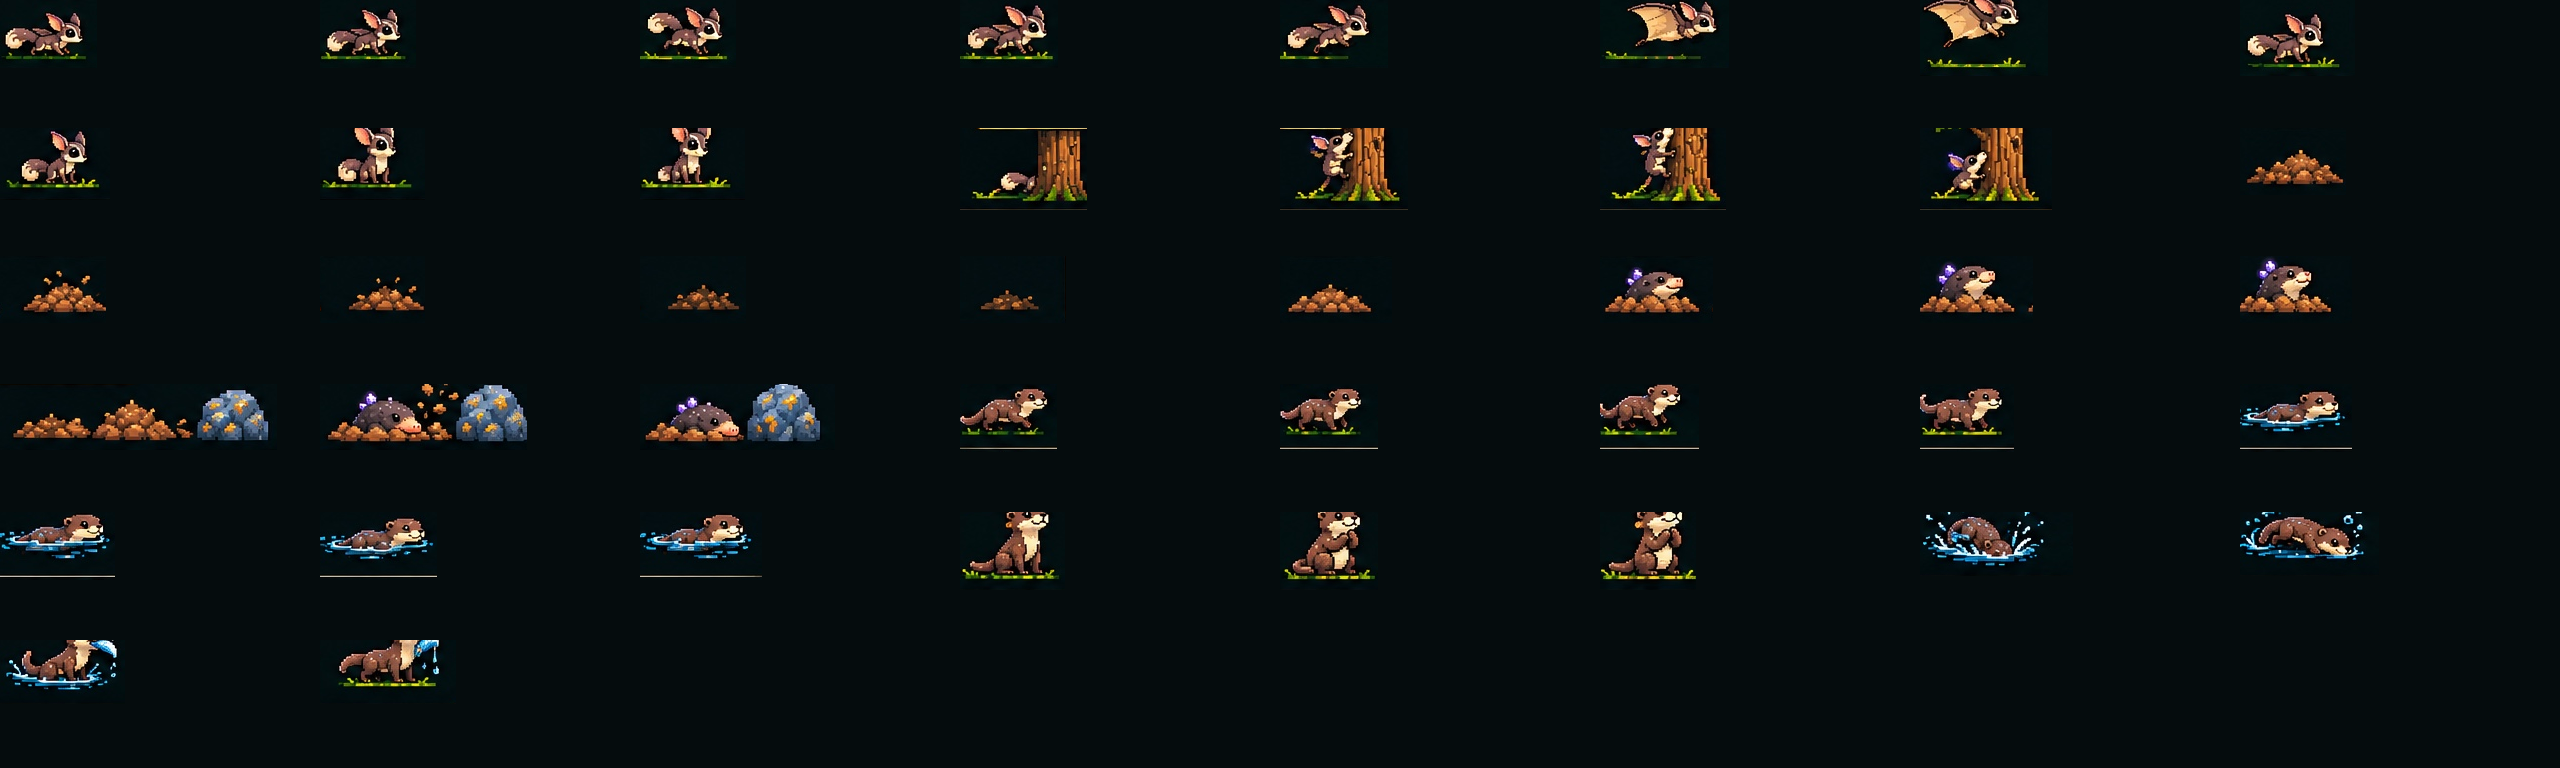
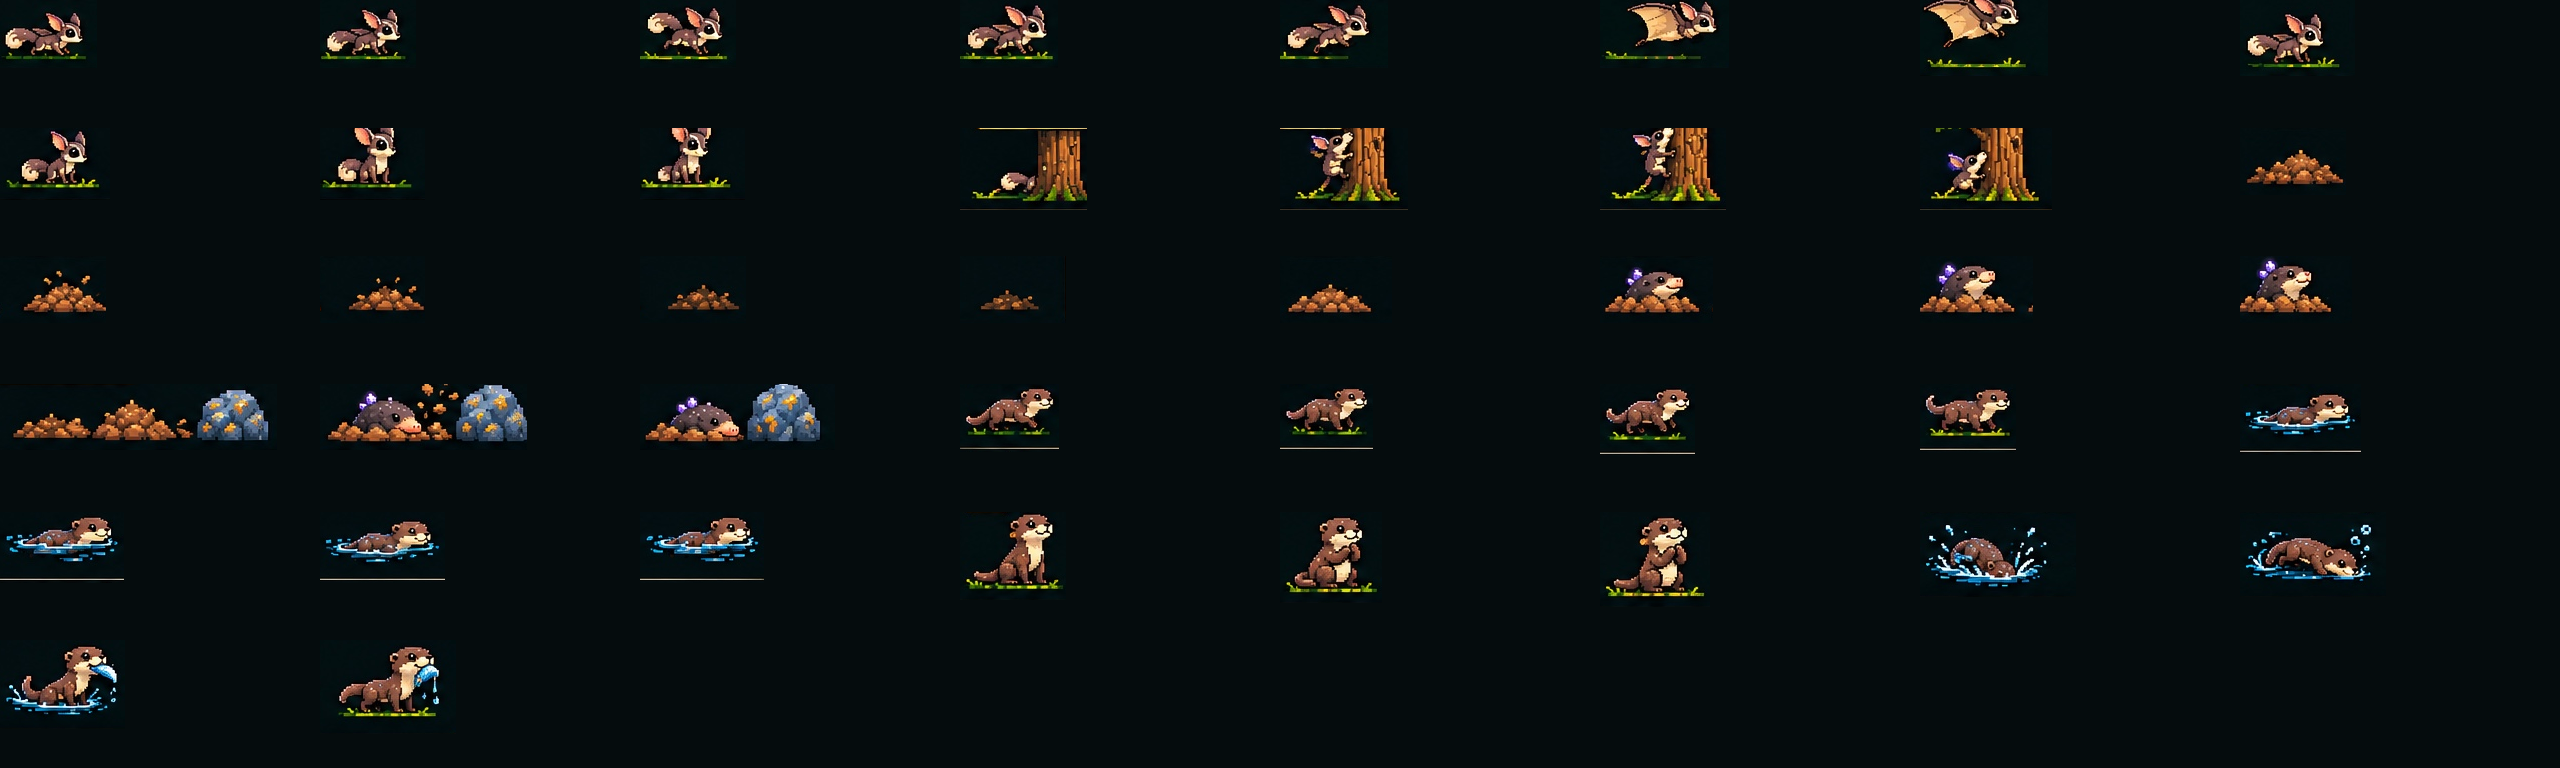
Fix River Otter frame clipping and scale companions below the player

diff --git a/public/crater-fitting-preview.html b/public/crater-fitting-preview.html
@@ -10,4 +10,4 @@
 <div class="playback"><button id="play" type="button">Pause</button><button id="replay" type="button">Replay</button><label>Frame<input id="frame" type="range" min="0" max="0" value="0"></label><span id="frameLabel" class="small" aria-live="off"></span><label class="check"><input id="mirror" type="checkbox">Mirror study (not a supplied view)</label></div>
 <div class="controls"><section class="panel"><h2>Fitting controls</h2><label>Draft creature size <input id="size" type="range" min="0.5" max="2" step="0.05" value="1"><span id="sizeLabel"></span></label><br><label>Preview frame duration <input id="duration" type="range" min="80" max="400" step="10" value="160"><span id="durationLabel"></span></label><p class="small">The player uses the existing approved renderer. The cyan marker is the crop’s proposed ground anchor. Creature crop backgrounds and grass remain visible.</p></section><section class="panel"><h2>Source & missing work</h2><dl id="details"></dl><p id="missing"></p><p id="error" role="alert"></p></section></div>
 <footer id="status" role="status">Loading approved reference frames…</footer>
-</main><script src="/wardrobe-v5.js?v=5"></script><script src="/approved-character.js?v=9"></script><script src="/crater-animation.js?v=1"></script><script src="/crater-fitting-preview.js?v=1"></script></body></html>
+</main><script src="/wardrobe-v5.js?v=5"></script><script src="/approved-character.js?v=9"></script><script src="/crater-animation.js?v=1"></script><script src="/crater-fitting-preview.js?v=2"></script></body></html>

diff --git a/public/crater-fitting-preview.js b/public/crater-fitting-preview.js
@@ -40,7 +40,7 @@
   if($('mirror').checked)ctx.fillText('Mirrored source study — no new directional artwork',24,54);
  }
  async function init(){
-  try{const response=await fetch('/crater-reference-frames.json?v=1');if(!response.ok)throw Error('Cannot load reference metadata');data=await response.json();await Promise.all(Object.entries(data.references).map(async([ref,r])=>images.set(ref,await loadImage('/'+r.file+'?v=1'))));
+  try{const response=await fetch('/crater-reference-frames.json?v=2');if(!response.ok)throw Error('Cannot load reference metadata');data=await response.json();await Promise.all(Object.entries(data.references).map(async([ref,r])=>images.set(ref,await loadImage('/'+r.file+'?v='+data.version))));
    selectCategory();$('category').addEventListener('change',selectCategory);$('creature').addEventListener('change',selectCreature);$('state').addEventListener('change',()=>{reset();updateDetails()});
    $('frame').addEventListener('input',()=>{playing=false;index=Number($('frame').value);$('play').textContent='Play'});
    $('play').addEventListener('click',()=>{playing=!playing;$('play').textContent=playing?'Pause':'Play'});$('replay').addEventListener('click',()=>{reset();playing=true;$('play').textContent='Pause'});

diff --git a/public/crater-pet-reference.js b/public/crater-pet-reference.js
@@ -4,8 +4,8 @@
   let ready=false,error='',metadata=null,atlas=null;const icons=new Map();
   async function load(){
    if(typeof fetch!=='function'||typeof Image!=='function')return false;
-   try{const response=await fetch('/crater-reference-frames.json?v=1');if(!response.ok)throw Error('Pet reference metadata unavailable');metadata=await response.json();
-    atlas=await new Promise((resolve,reject)=>{const image=new Image();image.onload=()=>resolve(image);image.onerror=()=>reject(Error('Pet reference artwork unavailable'));image.src='/'+metadata.references.R5.file+'?v=1'});
+   try{const response=await fetch('/crater-reference-frames.json?v=2');if(!response.ok)throw Error('Pet reference metadata unavailable');metadata=await response.json();
+    atlas=await new Promise((resolve,reject)=>{const image=new Image();image.onload=()=>resolve(image);image.onerror=()=>reject(Error('Pet reference artwork unavailable'));image.src='/'+metadata.references.R5.file+'?v='+metadata.version});
     ready=true;window.dispatchEvent?.(new Event('myrren-pet-reference-ready'));return true;
    }catch(e){error=e.message;return false}
   }

diff --git a/public/index.html b/public/index.html
@@ -72,7 +72,7 @@
 <script src="/crater-rocks.js?v=1"></script>
 <script src="/crater-animation.js?v=1"></script>
 <script src="/skilling-pets.js?v=1"></script>
-<script src="/crater-pet-reference.js?v=1"></script>
+<script src="/crater-pet-reference.js?v=2"></script>
 <script src="/myrren-game.js?v=16"></script>
 </body>
 </html>

diff --git a/scripts/pack-crater-reference-frames.py b/scripts/pack-crater-reference-frames.py
@@ -64,15 +64,15 @@ for id,name,top,bottom,height,count in [('forest_deer','Forest Deer',151,244,31,
         'takeoff' if id=='raven' else 'flee':group([976,top,1520,bottom],count,True)
     },(['Tree-climb frames'] if id=='squirrel' else [])+['Front/back views','Exact production frame timings'])
 
-creature('timber_glider','Timber Glider','Pets','R5',30,{
+creature('timber_glider','Timber Glider','Pets','R5',18,{
     'walk':group([525,145,955,213],4,True),'glide':group([1002,137,1520,213],4),
     'idle':group([525,260,955,332],3,True),'climb':group([1002,245,1520,332],4)
 },['Front/back views','Exact production frame timings'])
-creature('geode_mole','Geode Mole','Pets','R5',26,{
+creature('geode_mole','Geode Mole','Pets','R5',16,{
     'burrow':group([523,386,1052,453],5,True),'surface':group([1070,386,1520,453],4),
     'dig':group([523,477,1052,562],5)
 },['Front/back views','Exact production frame timings'])
-creature('river_otter','River Otter','Pets','R5',28,{
+creature('river_otter','River Otter','Pets','R5',18,{
     'walk':group([525,621,955,689],4,True),'swim':group([1002,621,1520,689],4,True),
     'idle':group([525,732,955,810],3,True),'dive-catch':group([1002,727,1520,810],4)
 },['Front/back views','Exact production frame timings'])
@@ -117,10 +117,10 @@ boxes('timber_glider','glide',[[1008,145,1116,213],[1125,145,1254,213],[1260,137
 boxes('timber_glider','idle',[[528,260,638,332],[650,260,755,332],[765,260,870,332]])
 boxes('timber_glider','climb',[[950,251,1077,333],[1093,251,1221,333],[1234,251,1360,333],[1373,251,1505,333]])
 boxes('geode_mole','dig',[[550,496,827,562],[853,496,1060,562],[1100,496,1295,562]])
-boxes('river_otter','walk',[[529,621,626,689],[639,621,737,689],[749,621,848,689],[859,621,953,689]])
-boxes('river_otter','swim',[[1000,621,1112,689],[1125,621,1240,689],[1253,621,1370,689],[1386,621,1508,689]])
-boxes('river_otter','idle',[[530,732,635,810],[652,732,750,810],[770,732,866,810]])
-boxes('river_otter','dive-catch',[[949,746,1102,810],[1105,746,1244,810],[1247,746,1372,810],[1375,746,1511,810]])
+boxes('river_otter','walk',[[523,621,622,689],[633,621,726,689],[740,616,835,689],[851,620,947,689]])
+boxes('river_otter','swim',[[990,618,1111,689],[1117,618,1241,689],[1247,618,1372,689],[1379,618,1503,689]])
+boxes('river_otter','idle',[[526,722,632,810],[650,719,752,810],[765,715,875,810]])
+boxes('river_otter','dive-catch',[[946,725,1102,810],[1098,725,1244,810],[1247,721,1372,810],[1375,716,1511,810]])
 
 # Final crop audit: isolate each complete pose instead of neighbouring limbs.
 boxes('jewelheart_guardian','idle',[[671,425,771,519],[782,425,881,519],[893,425,989,519],[1002,425,1096,519]])
@@ -167,8 +167,9 @@ levels=dict(zip(order[:8],[1,5,8,12,16,18,22,30]))
 creatures.sort(key=lambda c:order.index(c['id']))
 for c in creatures:
     if c['id'] in levels:c['level']=levels[c['id']]
+    if c['id']=='river_otter':c['fitSourceHeight']=68 # Expanded crops must not change the established source-pixel scale.
 
-data=dict(version=1,purpose='Exact reference crops for inspection; not production sprites',
+data=dict(version=2,purpose='Exact reference crops for inspection; not production sprites',
     pixelPolicy='Original decoded JPEG pixels retained without resizing, masking or redrawing.',
     timingPolicy='Preview timing only; no production durations approved.',
     sizePolicy='draftFitHeight is an adjustable fitting proposal, not an approved scale.',

diff --git a/tests/pet-scale-and-otter-crops.py b/tests/pet-scale-and-otter-crops.py
@@ -1,0 +1,26 @@
+"""Regression fixtures measured from the approved R5 animals, not crop edges."""
+import json
+from pathlib import Path
+
+root=Path(__file__).resolve().parents[1]
+m=json.loads((root/'public/crater-reference-frames.json').read_text())
+pets={c['id']:c for c in m['creatures'] if c['category']=='Pets'}
+assert {key:p['draftFitHeight'] for key,p in pets.items()}=={'timber_glider':18,'geode_mole':16,'river_otter':18}
+assert all(p['draftFitHeight']<40/2 for p in pets.values()),'companions must remain small beside the approximately 40px player'
+otter=pets['river_otter'];assert otter['fitSourceHeight']==68,'adding crop padding must not change the source-pixel scale'
+# Inclusive bounds of complete animals/splashes measured in the original board.
+body_bounds={
+ 'walk':[(529,629,615,671),(639,625,719,671),(746,622,828,671),(857,626,940,671)],
+ 'swim':[(996,629,1104,668),(1123,624,1234,667),(1253,628,1365,667),(1385,624,1496,667)],
+ 'idle':[(533,725,625,798),(656,725,746,798),(771,721,868,798)],
+ 'dive-catch':[(952,738,1084,799),(1104,738,1230,793),(1253,728,1363,795),(1394,723,1493,792)]
+}
+count=0
+for state,bounds in body_bounds.items():
+ for frame,(left,top,right,bottom) in zip(otter['states'][state]['frames'],bounds):
+  l,t,r,b=frame['sourceBox']
+  assert l<=left-3 and t<=top-3 and r>=right+3 and b>=bottom+3,(state,frame['sourceBox'],'body/head/tail must have padding')
+  assert (bottom-top+1)*otter['draftFitHeight']/otter['fitSourceHeight']<=22,'otter body must remain around half player height or smaller'
+  count+=1
+assert count==15
+print('PASS: all three pet scales stay small; all 15 otter poses retain complete heads, tails, fish and splashes with padding.')
